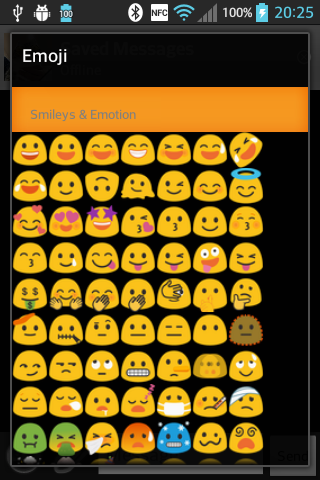
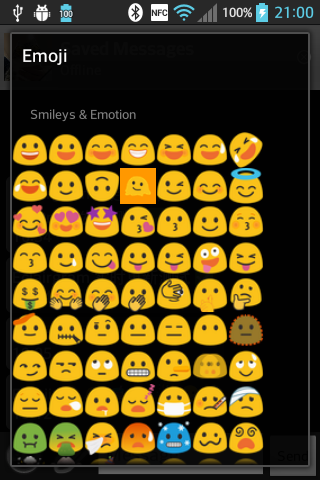
文档：补充 emoji 选择器方向键操作说明并更新截图

Changed region(s): [[0.0312, 0.1562, 0.9688, 0.2812], [0.375, 0.3438, 0.5, 0.4375], [0.875, 0.0, 1.0, 0.0625]]

diff --git a/README.en.md b/README.en.md
@@ -174,7 +174,8 @@ messages) provide en-US and zh-CN as well.
 - [x] **chat UI follows the list theme** (light on 2.1 / dark on 2.2+); bubbles and text adapt too
 - [x] **custom Blobmoji emoji picker**: sectioned by the official Unicode categories
       (smileys first, symbols/flags last) with within-section order matching modern keyboards
-      (categories and order come from `emoji-test.txt`; old keyboards can't type these emoji)
+      (categories and order come from `emoji-test.txt`; old keyboards can't type these emoji);
+      fully operable with the D-pad (left/right within a row, up/down between rows, centre to pick)
 - [x] **full D-pad navigation**: chat cards, buttons, the input and media bubbles are focusable;
       long-pressing a card opens its details
 - [x] **tap the profile picture to open a details page** (user/group/channel, like Talk's contact page)
